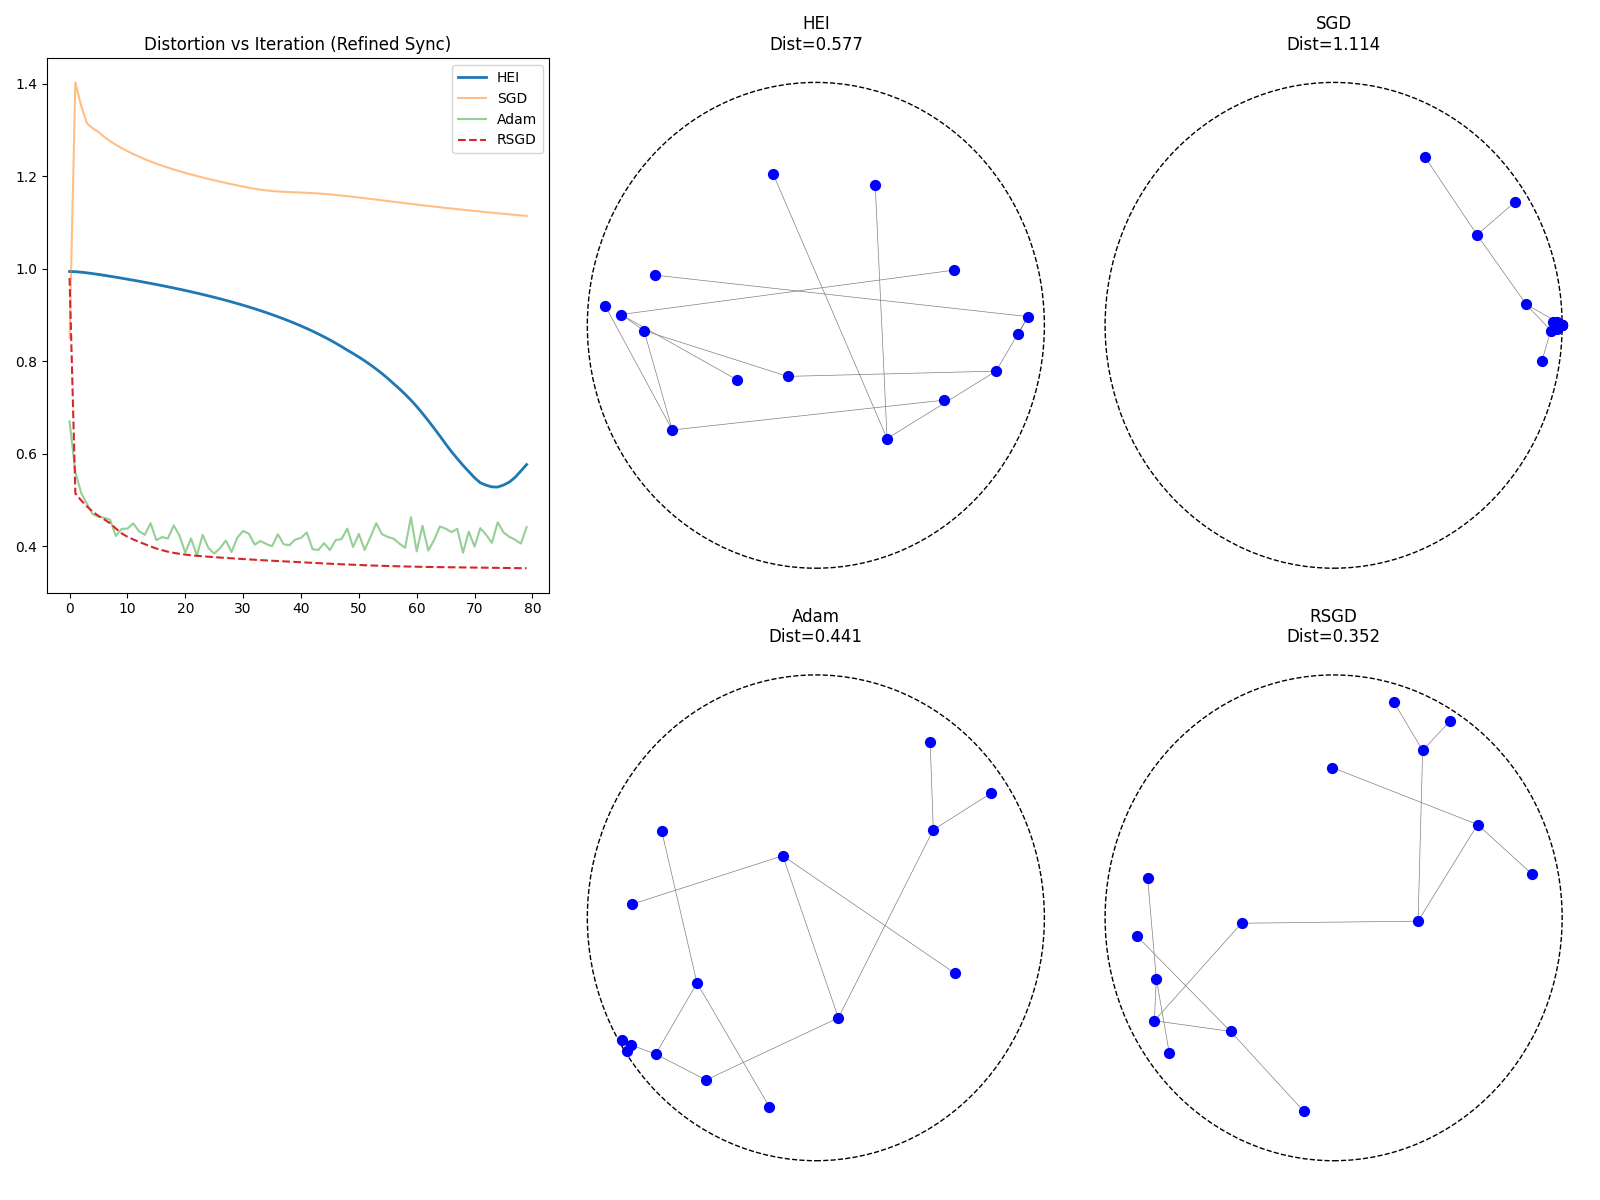
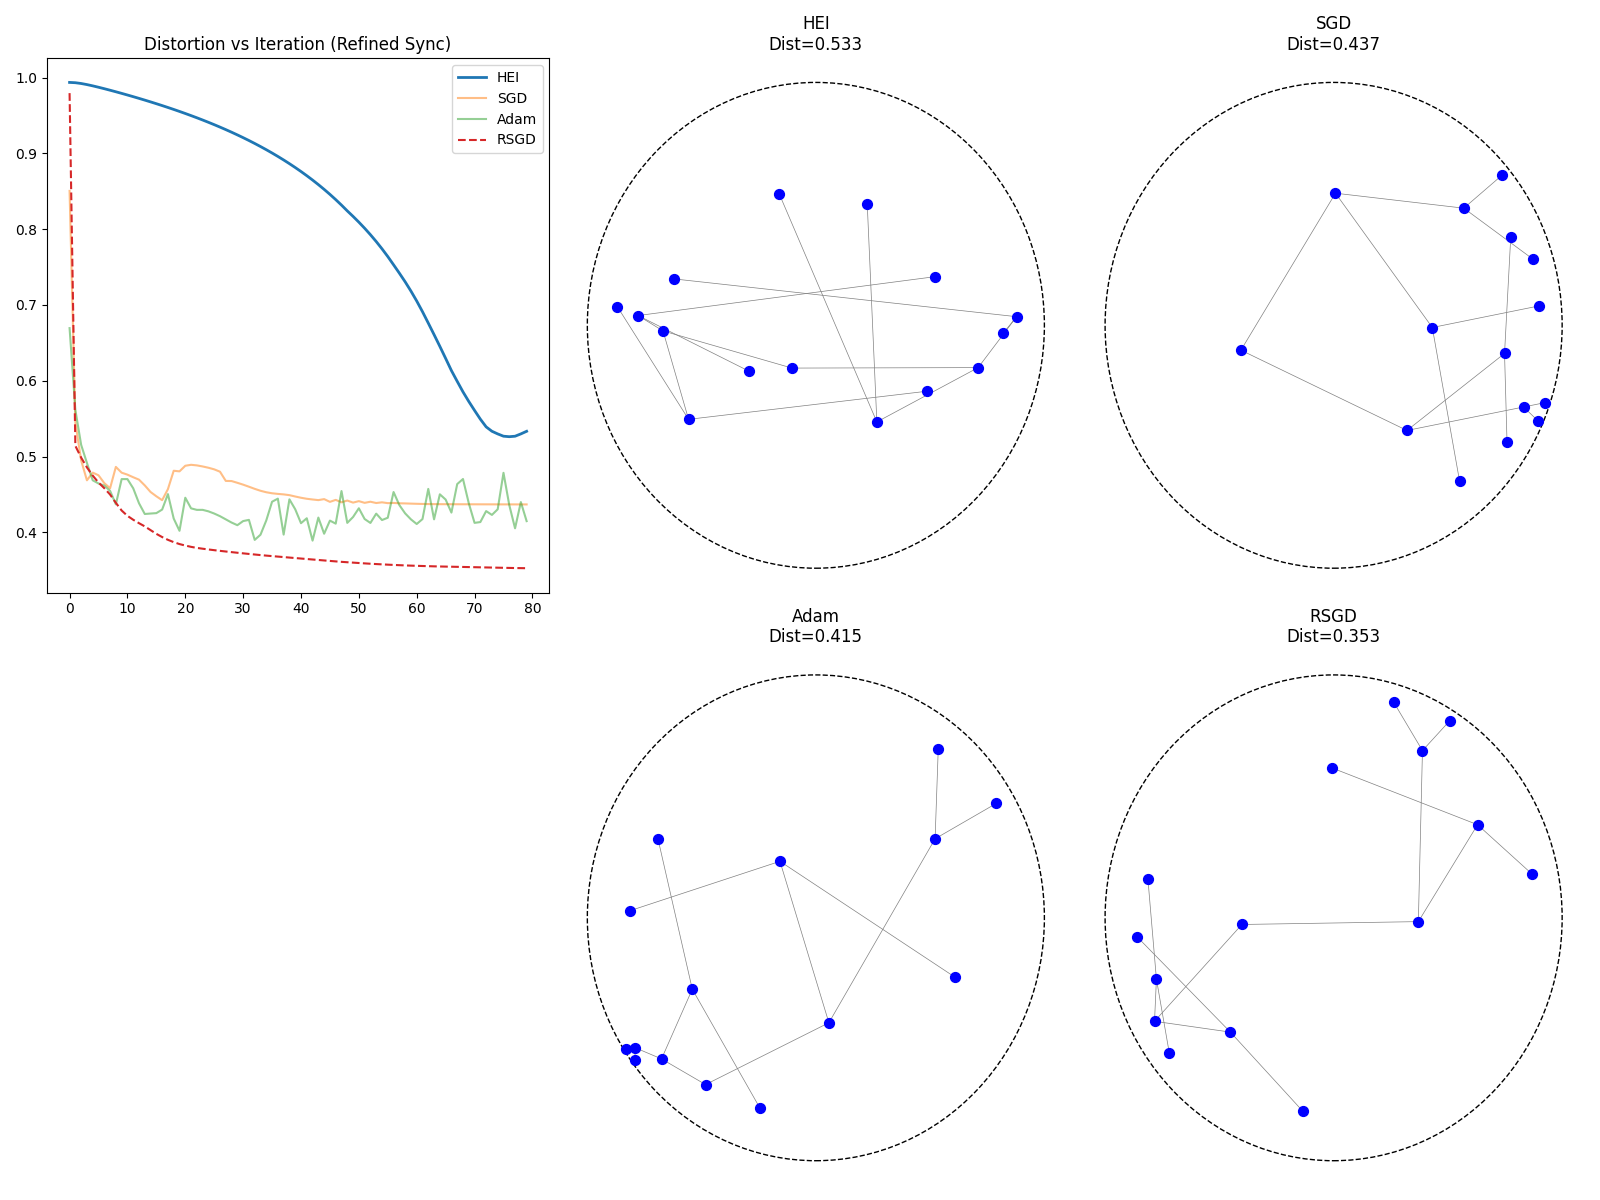
12·21-23：59|增加含时阻尼

diff --git a/experiment_tree_tanh.py b/experiment_tree_tanh.py
@@ -44,15 +44,19 @@ class SyntheticTree:
         return non_edges
 
 @dataclasses.dataclass
-class RobustTreePotential:
+@dataclasses.dataclass
+class TanhTreePotential:
     tree: SyntheticTree
     L_target: float = 1.7
-    k_att: float = 2.0
+    k_att_eff: float = 2.0  # Effective stiffness near equilibrium
+    V_max: float = 5.0      # Maximum bond energy (Depth of well)
     A_rep: float = 5.0
     sigma_rep: float = 0.5
     eps_soft: float = 0.2
-    huber_delta: float = 1.0 # Scale where behavior switches from Quadratic to Linear
     
+    def __post_init__(self):
+        self.sigma_bond_sq = self.V_max / self.k_att_eff
+        
     def potential(self, Z_uhp, action=None):
         Z = np.asarray(Z_uhp, dtype=np.complex128).ravel()
         n = Z.size
@@ -65,16 +69,13 @@ class RobustTreePotential:
         d_mat = 2 * np.arctanh(np.minimum(val, 1.0 - 1e-9))
         d_soft = np.sqrt(d_mat**2 + self.eps_soft**2)
         
-        # 1. Edge Potential (Pseudo-Huber)
-        # V(x) = k * delta^2 * (sqrt(1 + (x/delta)^2) - 1)
-        # Matches 0.5 * k * x^2 for small x
+        # 1. Edge Potential (Tanh)
         edges = np.array(self.tree.get_edges())
         if len(edges) > 0:
             d_edges = d_soft[edges[:, 0], edges[:, 1]]
-            err = d_edges - self.L_target
-            # Pseudo-Huber
-            scale = self.huber_delta
-            V_edge = np.sum(self.k_att * (scale**2) * (np.sqrt(1 + (err/scale)**2) - 1))
+            err_sq = (d_edges - self.L_target)**2
+            # V = Vmax * tanh( err^2 / 2sigma^2 )
+            V_edge = np.sum(self.V_max * np.tanh(err_sq / (2 * self.sigma_bond_sq)))
         else:
             V_edge = 0.0
             
@@ -105,20 +106,19 @@ class RobustTreePotential:
             
             forces = np.zeros(n, dtype=float)
             
-            # Edge Forces (Pseudo-Huber)
+            # Edge Forces (Tanh)
             neighbors = list(self.tree.graph.neighbors(i))
             if neighbors:
                 nbrs = np.array(neighbors)
-                err = d_soft[nbrs] - self.L_target
-                scale = self.huber_delta
-                # Force = dV/derr = k * delta^2 * (1/sqrt(...)) * (1/delta) * (2*err/delta) * 0.5 ...
-                # V = k d^2 (sqrt(1+u^2) - 1), u = err/d
-                # dV/du = k d^2 * u / sqrt(1+u^2)
-                # dV/derr = dV/du * 1/d = k d * u / sqrt(1+u^2) = k * d * (err/d) / sqrt = k * err / sqrt(...)
-                denom = np.sqrt(1 + (err/scale)**2)
-                force_huber = self.k_att * err / denom
+                d_val = d_soft[nbrs]
+                err = d_val - self.L_target
                 
-                forces[nbrs] += force_huber
+                u = (err**2) / (2 * self.sigma_bond_sq)
+                tanh_u = np.tanh(u)
+                sech2_u = 1.0 - tanh_u**2
+                
+                force_tanh = self.k_att_eff * err * sech2_u
+                forces[nbrs] += force_tanh
                 
             # Repulsive Forces
             mask_rep = np.ones(n, dtype=bool)
@@ -192,11 +192,13 @@ def run_rsgd_baseline(pot, z0, steps=1000, lr=0.01):
     return dist_hist, z
 
 def run_tree_experiment():
-    print("Setting up Tree Experiment (Physics Mode - Pseudo-Huber)...")
+    print("Setting up Tree Experiment (Physics Mode - Tanh-Soft)...")
     depth = 3
     tree = SyntheticTree(depth=depth)
     
-    pot = RobustTreePotential(tree=tree, L_target=1.7, k_att=2.0, A_rep=5.0, sigma_rep=0.5, eps_soft=0.2, huber_delta=1.0)
+    # Using Tanh Potential
+    # V_max=5.0 gives 'bond energy' of 5 units. If force exceeds this, it yields.
+    pot = TanhTreePotential(tree=tree, L_target=1.7, k_att_eff=2.0, V_max=10.0, A_rep=5.0, sigma_rep=0.5, eps_soft=0.2)
     
     np.random.seed(42)
     z0 = init_big_bang(tree.num_nodes, sigma=0.01)
@@ -225,7 +227,23 @@ def run_tree_experiment():
     hei_distortion = []
     z_final_hei = None
     
+    # Gamma Schedule: Exponential Increase
+    # gamma(t) = gamma_min * (gamma_max / gamma_min) ** (t / T)
+    gamma_min = 0.1
+    gamma_max = 10.0
+    
+    hei_distortion = []
+    z_final_hei = None
+    
     for i in range(steps):
+        # Update gamma
+        progress = i / steps
+        # Exponential schedule
+        current_gamma = gamma_min * (gamma_max / gamma_min)**(progress**2) # Quadratically exponential for slower start
+        
+        # Update integrator config (gamma_mode must be 'constant')
+        integrator.config.gamma_scale = current_gamma
+        
         state = integrator.step(state)
         if i % 50 == 0:
             d = calculate_distortion(state.z_uhp, tree)
